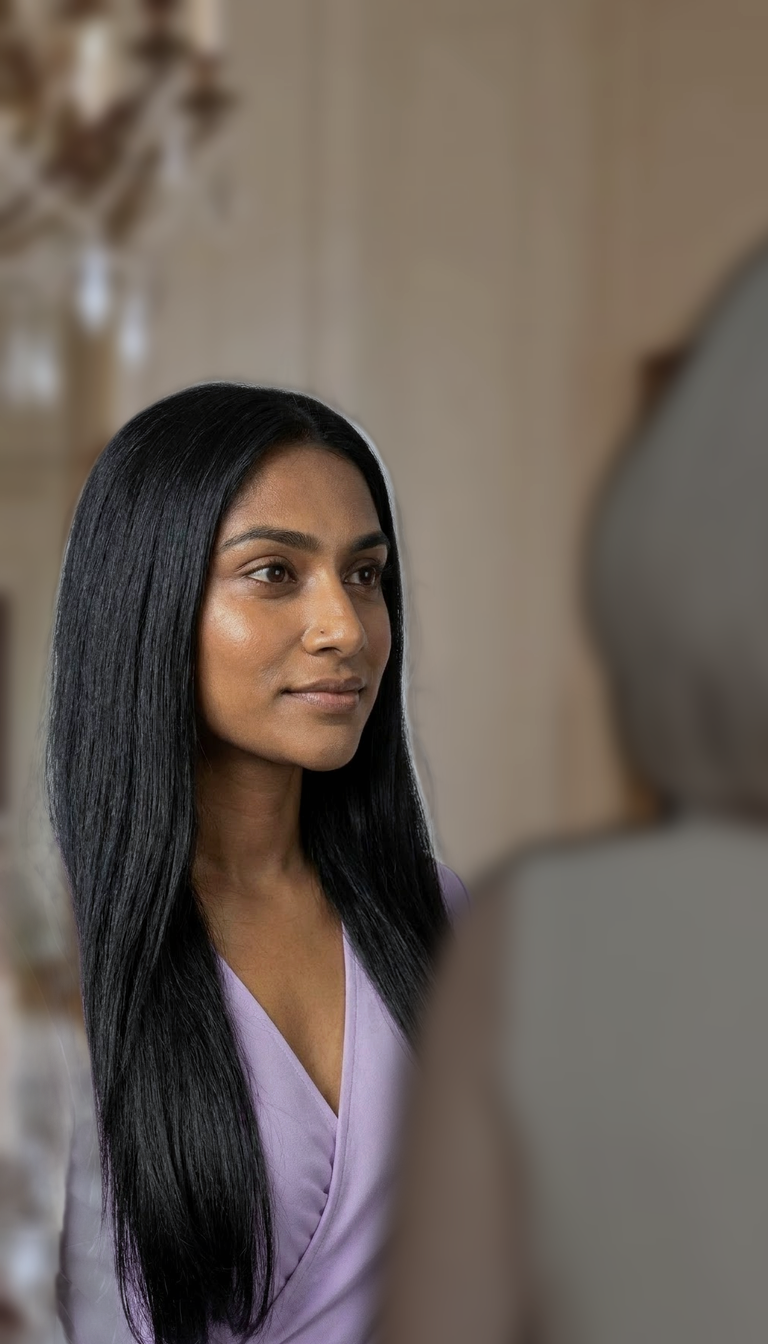
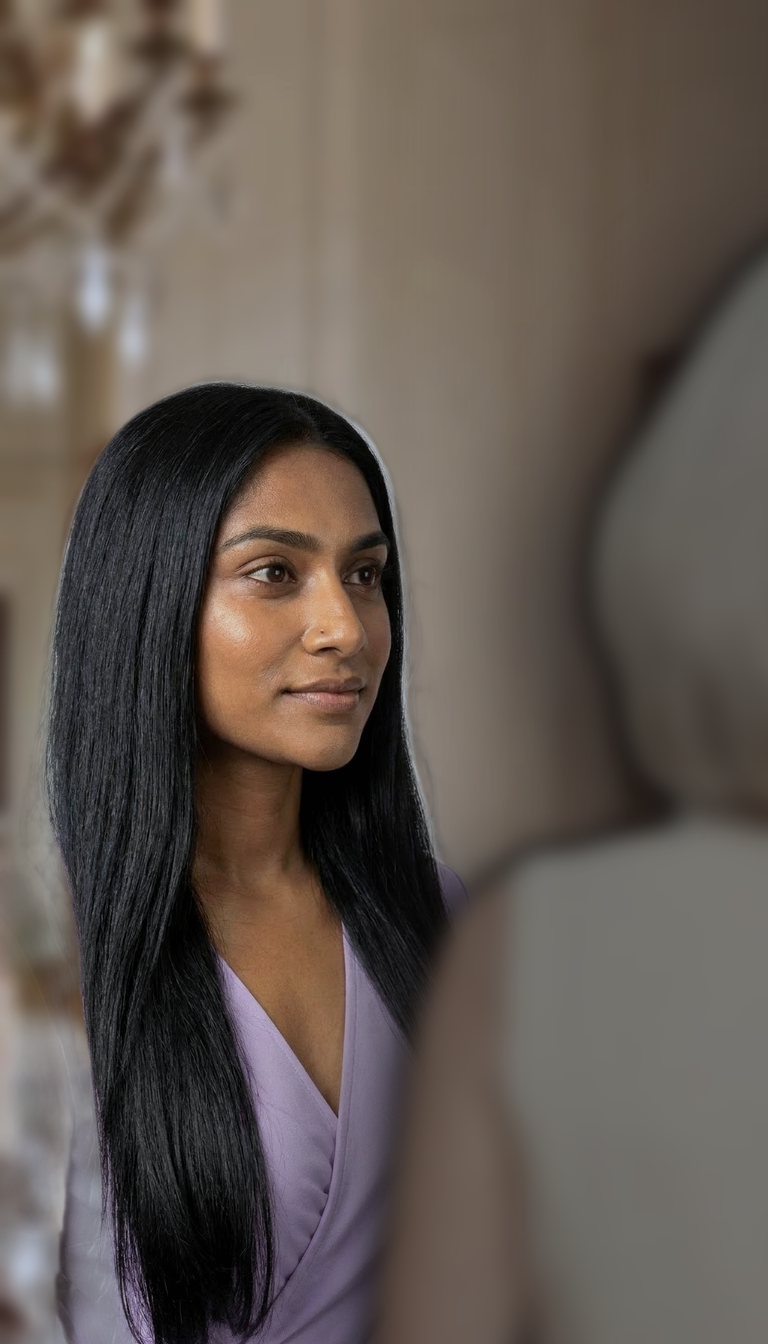
Part 2 stills: listener shade falloff and cast shadow
Claude-Session: https://claude.ai/code/session_01PFv53KeGngBj5SrFtw8MQY

Changed region(s): [[0.5625, 0.0, 1.0, 0.6875], [0.375, 0.6875, 0.5312, 1.0]]

diff --git a/experiments/ai_story/make_ots_stills.py b/experiments/ai_story/make_ots_stills.py
@@ -39,7 +39,19 @@ def make(id_, speaker, flip, listener, side):
     out=bg.copy(); sp=grade(cut(speaker,flip)); s=0.76
     sp=sp.resize((int(sp.width*s),int(sp.height*s)),Image.LANCZOS)
     out.paste(sp,((W-sp.width)//2+(110 if side=="L" else -110),H-sp.height+20),sp)
-    f,pos=fg_back(listener,side); out.paste(f,pos,f); out.save(f"{OUT}/{id_}.png"); print(id_,flush=True)
+    f,pos=fg_back(listener,side)
+    # 1) soft falloff: the side nearest the listener sits in their shade
+    grad=Image.new("L",(W,1))
+    for x in range(W):
+        t=x/W if side=="L" else 1-x/W
+        grad.putpixel((x,0),int(255*min(1.0,0.55+0.45*t/0.55)))
+    grad=grad.resize((W,H)); dark=Image.new("RGB",(W,H),(18,16,20))
+    out=Image.composite(out,dark,grad)
+    # 2) cast shadow of the listener's silhouette, offset toward the speaker
+    sh=Image.new("L",(W,H),0); sh.paste(f.getchannel("A"),(pos[0]+(70 if side=="L" else -70),pos[1]+30))
+    sh=sh.filter(ImageFilter.GaussianBlur(45)).point(lambda v:int(v*0.55))
+    out=Image.composite(dark,out,sh)
+    out.paste(f,pos,f); out.save(f"{OUT}/{id_}.png"); print(id_,flush=True)
 jobs=[("P2_L03","eleanor_34",True,"priya_back","L"),("P2_L05","eleanor_smug",False,"priya_back","L"),
 ("P2_L08","eleanor_angry",False,"priya_back","L"),("P2_L11","eleanor_shock",False,"priya_back","L"),
 ("P2_L04","priya_34",True,"eleanor_back","R"),("P2_L06","priya_34",True,"eleanor_back","R"),
